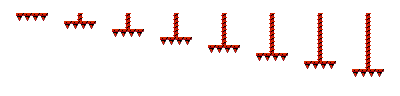
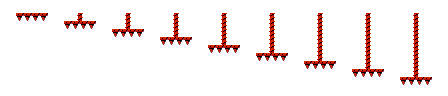
Spikes working now

Changed region(s): [[0.12, 0.125, 0.99, 0.875], [0.03, 0.125, 0.12, 0.2188]]

diff --git a/FrameWork/Spike.cpp b/FrameWork/Spike.cpp
@@ -1,33 +1,52 @@
 #include "Spike.h"
 #include "PlayScene.h"
-Spike::Spike(eStatus status, GVector2 pos) :BaseObject(eID::SPIKE) {
+Spike::Spike(eSpikeState state, GVector2 pos) :BaseObject(eID::SPIKE) {
 	_sprite = SpriteManager::getInstance()->getSprite(eID::SPIKE);
-	_sprite->setFrameRect(0, 0, 32.0f, 32.0f);
-	// rớt xuống
-	GVector2 v(0, 0);
-	GVector2 a(0, 0);
-	this->_listComponent.insert(pair<string, IComponent*>("Movement", new Movement(a, v, this->_sprite)));
-	this->setStatus(status);
+	_sprite->setFrameRect(0, 0, 64.0f, 64.0f);
+
 	this->setPosition(pos);
 	this->setScale(SCALE_FACTOR);
-	this->setScaleX(SCALE_FACTOR);
 
 	_stopWatch = new StopWatch();
+	switch (state) {
+	case SPIKE_FALLING_01:
+		spikeState=FALLING_01;
+		break;
+	case SPIKE_FALLING_02:
+		spikeState = FALLING_02;
+		break;
+	case SPIKE_FALLING_03:
+		spikeState = FALLING_03;
+		break;
+	default:
+		break;
+	}
+
+	/*this->spikeState = status;*/
+
 }
 
 Spike::~Spike() {}
 
 void Spike::init() {
-	_animations[eStatus::WAITING] = new Animation(_sprite, 0.1f);
+	_animations[eStatus::WAITING] = new Animation(_sprite, 0.15f);
 	_animations[eStatus::WAITING]->addFrameRect(eID::SPIKE, "normal", NULL);
+
 	// spike dài nhất :đang test
-	_animations[eStatus::SPIKE_FALLING_01] = new Animation(_sprite, 0.5f);
-	_animations[eStatus::SPIKE_FALLING_01]->addFrameRect(eID::SPIKE, "fall_02", "fall_03", "fall_04", "fall_05", "fall_06", "fall_07", "fall_08", "fall_07",
+	_animations[eStatus::FALLING_01] = new Animation(_sprite, 0.15f);
+	_animations[eStatus::FALLING_01]->addFrameRect(eID::SPIKE, "fall_02", "fall_03", "fall_04", "fall_05", "fall_06", "fall_07", "fall_08", "fall_07",
+		"fall_06", "fall_05", "fall_04", "fall_03", "fall_02", "fall_01", NULL);
+
+	// vừa vừa :v
+	_animations[eStatus::FALLING_02] = new Animation(_sprite, 0.15f);
+	_animations[eStatus::FALLING_02]->addFrameRect(eID::SPIKE, "fall_02", "fall_03", "fall_04", "fall_05", "fall_06", "fall_07",
 		"fall_06", "fall_05", "fall_04", "fall_03", "fall_02", "fall_01", NULL);
 
 	// spike ngắn nhất
-	/*_animations[FALLING_02] = new Animation(_sprite, 0.5f);
-	_animations[FALLING_02]->addFrameRect(eID::SPIKE, "fall_02", "fall_03", "fall_04", "fall_03", "fall_02", "fall_01", NULL);*/
+	_animations[eStatus::FALLING_03] = new Animation(_sprite, 0.15f);
+	_animations[eStatus::FALLING_03]->addFrameRect(eID::SPIKE, "fall_02", "fall_03", "fall_04", "fall_05", "fall_06",  "fall_05", "fall_04",
+		"fall_03", "fall_02", "fall_01", NULL);
+	
 
 	//*Test
 	//this->setPosition(GVector2(300, 200));
@@ -45,31 +64,57 @@ void Spike::update(float deltaTime) {
 		this->updateWaiting();
 		return;
 	}
-	//else {
 
-	//if ((this->getStatus() == eStatus::FALLING_01) && _animations[_currentAnimateIndex]->getIndex() == 6) {
-	//	auto movement = (Movement*)this->_listComponent["Movement"];
-	//	movement->setVelocity(GVector2(0, SPEED_RETURN));
-
-	//}
 
 	for (auto it : _listComponent) {
 		it.second->update(deltaTime);
 	}
 
 	if (this->getStatus() != DESTROY) {
-		/*this->updateCurrentAnimateIndex();
-
-		_animations[_currentAnimateIndex]->update(deltaTime);*/
 		_animations[this->getStatus()]->update(deltaTime);
 
-	}
 
-	/*}*/
+		switch (this->getStatus()) {
+		case FALLING_01:
+			if (_animations[this->getStatus()]->getIndex() >= 6) {
+				_animations[this->getStatus()]->setTimeAnimate(0.45f);
+			}
+			else {
+				_animations[this->getStatus()]->setTimeAnimate(0.15f);
+			}
+			break;
+		case FALLING_02:
+			if (_animations[this->getStatus()]->getIndex() >= 5) {
+				_animations[this->getStatus()]->setTimeAnimate(0.45f);
+			}
+			else {
+				_animations[this->getStatus()]->setTimeAnimate(0.15f);
+			}
+			break;
+		case FALLING_03:
+			if (_animations[this->getStatus()]->getIndex() >= 4) {
+				_animations[this->getStatus()]->setTimeAnimate(0.45f);
+			}
+			else {
+				_animations[this->getStatus()]->setTimeAnimate(0.15f);
+			}
+			break;
+		default:
+			break;
+		}
+		// Loại dài nhất, lúc nó fall thì nhanh, return thì chậm
+		/*if ((this->getStatus() == eStatus::SPIKE_FALLING_01) && _animations[this->getStatus()]->getIndex() >= 6) {
+			_animations[this->getStatus()]->setTimeAnimate(0.5f);
+
+		}
+		else {
+			_animations[this->getStatus()]->setTimeAnimate(0.1f);
+
+		}*/
+	}
 }
 
 void Spike::draw(LPD3DXSPRITE spriteHandler, Viewport *viewport) {
-	//_animations[_currentAnimateIndex]->draw(spriteHandler, viewport);
 	_animations[this->getStatus()]->draw(spriteHandler, viewport);
 
 }
@@ -107,16 +152,6 @@ IComponent * Spike::getComponent(string componentName) {
 	return _listComponent.find(componentName)->second;
 }
 
-void Spike::updateCurrentAnimateIndex() {
-
-
-	if (this->isInStatus(eStatus::WAITING)) {
-		_currentAnimateIndex = eStatus::WAITING;
-	}
-	if (_currentAnimateIndex & eStatus::SPIKE_FALLING_01) {
-		_currentAnimateIndex = eStatus::SPIKE_FALLING_01;
-	}
-}
 
 void Spike::updateWaiting() {
 	auto viewport = ((PlayScene*)SceneManager::getInstance()->getCurrentScene())->getViewport();
@@ -127,8 +162,8 @@ void Spike::updateWaiting() {
 	}
 	else {
 		// cạnh phải spike >cạnh trái view-->falling
-		if (this->getBounding().right > screenBound.left) {
-			this->setStatus(eStatus::SPIKE_FALLING_01);
+		if (this->getBounding().left < screenBound.right) {
+			this->setStatus(spikeState);
 		}
 	}
 }

diff --git a/FrameWork/ObjectFactory.cpp b/FrameWork/ObjectFactory.cpp
@@ -125,6 +125,9 @@ BaseObject* ObjectFactory::getObjectById(xml_node node, eID id)
 	case BRICK:
 		return getBrick(node);
 		break;
+		case SPIKE:
+			return getSpike(node);
+			break;
 	case DRAGON:
 		return getDragon(node);
 		break;
@@ -513,23 +516,24 @@ BaseObject * ObjectFactory::getSpike(xml_node node) {
 		return nullptr;
 
 	int x, y;
-	eStatus status;
+	//eStatus status;
+	eSpikeState state;
 
 	xml_node activebound = node.child("ActiveBound");
-	x = stoi(properties["X"]);
+	x = stoi(properties["X"])+32;
 	y = stoi(properties["Y"]);
 	//hack :v
 	/*x += 8;
 	width -= 64;
 	y -= 48;*/
-	if (properties.find("status") != properties.end()) {
-		status = (eStatus)(stoi(properties.find("status")->second));
+	if (properties.find("state") != properties.end()) {
+		state = (eSpikeState)(stoi(properties.find("state")->second));
 	}
 	else {
-		status = eStatus::WAITING;
+		state = eSpikeState::SPIKE_FALLING_01;
 	}
 
-	auto spike = new Spike(status, GVector2(x, y));
+	auto spike = new Spike(state, GVector2(x, y));
 	spike->init();
 
 	return spike;

diff --git a/FrameWork/PlayScene.cpp b/FrameWork/PlayScene.cpp
@@ -161,7 +161,7 @@ void PlayScene::update(float deltaTime)
 		//}
 		//không cần xét va chạm cho các trường hợp này
 			if (obj == nullptr || obj->isInStatus(eStatus::DESTROY) || obj->getId() == eID::LAND || obj->getId() == eID::BRICK || 
-			 obj->getId() == eID::FLYLAND|| obj->getId() == eID::DOOR)
+			 obj->getId() == eID::FLYLAND|| obj->getId() == eID::DOOR || obj->getId() == eID::SPIKE)
 			continue;	
 		// check mấy con như knight vs land đồ :v
 		for (BaseObject* passiveobj : _activeObject) {

diff --git a/FrameWork/define.h b/FrameWork/define.h
@@ -134,9 +134,9 @@ enum eStatus
 	PICKUPITEM = (1 << 27),
 	FREEZE = (1 << 28),
 
-	SPIKE_FALLING_01=(1<<29),
-	SPIKE_FALLING_02 = (1 << 30),
-	SPIKE_FALLING_03 = (1 << 31),
+	FALLING_01 = 0,
+	FALLING_02 = 1,
+	FALLING_03 = 2,
 
 };
 
@@ -173,6 +173,12 @@ enum eDirection
 	LEFT	=		4,
 	RIGHT	=		8,
 	ALL		= (TOP | BOTTOM | LEFT | RIGHT),
+};
+
+enum eSpikeState {
+	SPIKE_FALLING_01 = 0,
+	SPIKE_FALLING_02 = 1,
+	SPIKE_FALLING_03 = 2,
 };
 
 enum eLevel2Viewport

diff --git a/FrameWork/SpriteManager.cpp b/FrameWork/SpriteManager.cpp
@@ -74,7 +74,7 @@ void  SpriteManager::loadResource(LPD3DXSPRITE spriteHandler)
 
 	// SPIKE
 	sp = new Sprite(spriteHandler, L"Resources//Images//spike.png");
-	this->_listSprite[eID::SPIKE] = sp;
+	this->_listSprite.insert(pair<eID, Sprite*>(eID::SPIKE, sp));
 	this->loadSpriteInfo(eID::SPIKE, "Resources//Images//spike_animation.txt");
 
 	//sp = loadXMLDoc(spriteHandler, L"Resources//Maps//test.xml");

diff --git a/FrameWork/Spike.h b/FrameWork/Spike.h
@@ -15,7 +15,7 @@ public:
 	@pos: Vị trí
 	@x, y: tọa độ của pos
 	*/
-	Spike(eStatus status, GVector2 pos);
+	Spike(eSpikeState state, GVector2 pos);
 	~Spike();
 
 	void init();
@@ -39,5 +39,7 @@ private:
 	void updateCurrentAnimateIndex();
 	void updateWaiting();
 	int _hack;
+
+	eStatus spikeState;
 };
 
